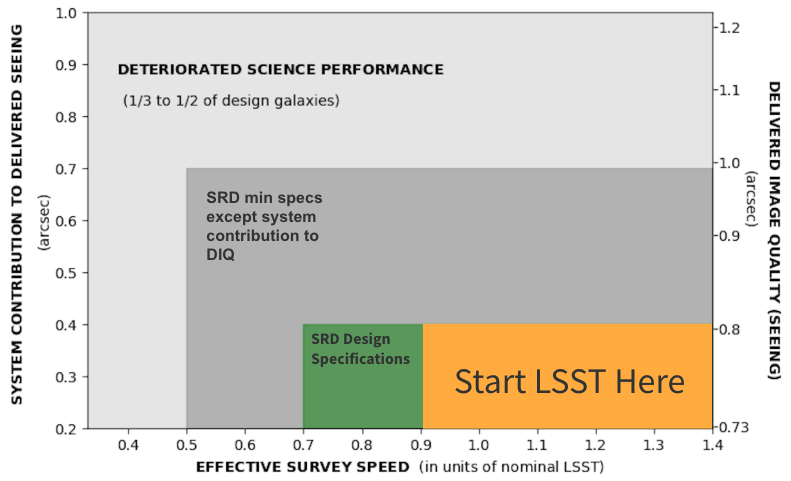
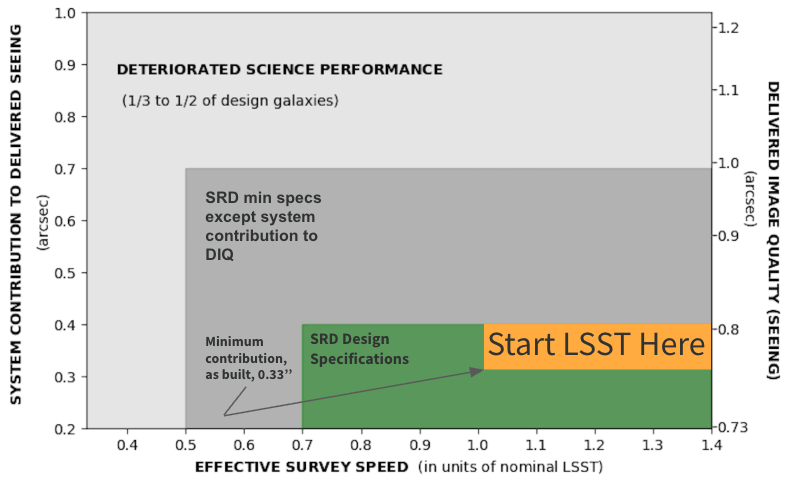
Explicit criteria in abstract. New speed3.

diff --git a/criteria.tex b/criteria.tex
@@ -51,18 +51,20 @@ Further use of available temperature sensors on the telescope and in the dome wi
 
 The total contribution to DIQ from the dome environment is modest. Including all sources of turbulence generated by the facility, the budget to contribute to the DIQ is only 0.09$\arcsec$. Clearly all systems for controlling these contributions need to be working well and reliably. The observatory will need to rely on the ability to characterize parts of the DIQ coming from this environment. Thus we will prioritize reliable operation and calibration of our DIMM, in-dome seeing monitors, as well as the atmospheric profiler on Cerro Pach\'{on}, RINGSS.  
 
-\subsection{Normalized \'{E}tendue.}
-Much of the system availability is already demonstrated to be sufficient to start the LSST, The field of view factor, fA, is excellent and stable. The sensitivity factor, fS, is also very good. This factor has the potential to help overall performance because of its dependence on delivered image quality. Getting the system contribution from 0.6 to 0.4 (coupled with site atmospheric seeing of 0.7$\arcsec$) would raise fS from 0.94 to 1.3. Apart from this, all the optics are delivered as is the focal plane. The performance of all these components is excellent and can be maintained. The observing efficiency or fO is also in good shape. The telescope dynamic performance (slew speed, acceleration, and jerk) is sufficient for the LSST planned cadence. 
+\subsection{Normalized \'{E}tendue}
+Much of the effective speed (Normalized  \'{E}tendue) is already demonstrated to be sufficient to start the LSST, The field of view factor, fA, is excellent and stable. The sensitivity factor, fS, is also very good. This factor has the potential to help overall performance because of its dependence on delivered image quality. Getting the system contribution from 0.6 to 0.4 (coupled with site atmospheric seeing of 0.7$\arcsec$) would raise fS from 0.94 to 1.3. Apart from this, all the optics are delivered as is the focal plane. The performance of all these components is excellent and can be maintained. The observing efficiency or fO is also in good shape. The telescope dynamic performance (slew speed, acceleration, and jerk) is sufficient for the LSST planned cadence. 
 
 The TMA currently can move faster than we operate it due to the need to improve the control of dynamic loads on the glass via force actuators. However the current performance with glass is captured in the scheduler simulator and is only a modest hit to LSST. We will continue to work on improved dynamic control even as we operate for LSST. Slew and settle performance are well understood and adequate. Modest gains on fO are forecast for the rest of SV and early operations. We expect the current value to go from 0.97 to 1.05. 
 
-This leaves the System Availability, Current performance of 0.75 needs to be improved. Doing only science like observations we have reached 85$\%$ at times. We need to continue to improve on procedures and reliability of systems throughout the summit facility as we go forward. This means training for faster troubleshooting and fault recovery, making communications on the telescope system bus more reliable, improving reliability of telescope, dome, and camera functions. These have all seen marked progress as expected though out system integration, test, and commissioning. The System Availability still needs to be $\gtrsim$ 0.7 or so, a soft requirement, if the DIQ is typically delivered with 0.4$\arcsec$ contribution from the system. 
+This leaves the System Availability, Current performance of 0.75 needs to be improved. Doing only science like observations we have reached 85$\%$ at times. We need to continue to improve on procedures and reliability of systems throughout the summit facility as we go forward. This means training for faster troubleshooting and fault recovery, making communications on the telescope system bus more reliable, improving reliability of telescope, dome, and camera functions. These have all seen marked progress as expected though out system integration, test, and commissioning. We will assume current performance of 75$\%$ conservatively. 
 
-The minimum Normalized \'{E}tendue is 0.7$\arcsec$ in the SRD. This level is nearly in hand. We will start the LSST consistent with this, however, the actual value will be better given the dependence on DIQ discussed next. 
+The minimum Normalized \'{E}tendue is 0.7$\arcsec$ in the SRD. This level is nearly in hand; see Table~\ref{tab:factors} and the "Sustained Performance values." We will start the LSST consistent with System Availability of 75$\%$ which leads to fE $=$ 1.01 using the Demonstrated Capability column f factors in Table~\ref{tab:factors}. However, the actual value will be better given that we expect the System Availability to improve significantly. 
 
 \subsection{DIQ}
 
-The single most important gain needed to get to the LSST start is clearly the typical DIQ. We will not start the LSST until this sustained performance reflects a system contribution of $\le$ 0.4$\arcsec$. This requires continued effort on the control of optics and the dome environment. Putting this together with the criteria above results in the region of the performance diagram we can use to gate starting the LSST as depicted in Figure~\ref{speed3}. 
+The single most important gain needed to get to the LSST start is clearly the typical DIQ. We will not start the LSST until this sustained performance reflects a system contribution of $\le$ 0.4$\arcsec$, the minimum SRD requirement. The very best the system contribution can be given current as build measurements is 0.327$\arcsec$. 
+
+Improving the system contribution to the DIQ requires continued effort on the control of optics and the dome environment. Putting this together with the criteria above results in the region of the performance diagram we can use to gate starting the LSST as depicted in Figure~\ref{speed3}. The survey can begin once the system contribution to DIQ is 0.4$\arcsec$ or less and the effective survey speed is 1.01 or better (see Table~\ref{tab:factors} and assume System Availability is 75$\%$).
 
 \begin{figure}[t]
   \centering

diff --git a/RTN-093.tex b/RTN-093.tex
@@ -35,7 +35,7 @@ Robert Blum, \v{Z}eljko Ivezi\'{c}, Phil Marshall
 % \setDocCurator{The Curator of this Document}
 
 \setDocAbstract{%
-This document concisely captures the criteria that must be satisfied to begin regular survey operations for the Legacy Survey of Space and Time (i.e. to begin execution of the planned 10 year survey strategy currently documented in PSTN-056). It is expected that the survey will start in late 2025 1-2 months after the beginning of the formal Operations phase at the completion of construction.
+This document concisely captures the criteria that must be satisfied to begin regular survey operations for the Legacy Survey of Space and Time (i.e. to begin execution of the planned 10 year survey strategy currently documented in PSTN-056). It is expected that the survey will start in late 2025 1-2 months after the beginning of the formal Operations phase at the completion of construction. The survey can start based on quantitative criteria described herein. The system contribution to the delivered image quality must be $\ge$ 0.4$\arcsec$ and the effective survey speed must be 1.01 or better. Both of these are attainable given our experience and knowledge of the current on sky system. 
 }
 
 % Change history defined here.
